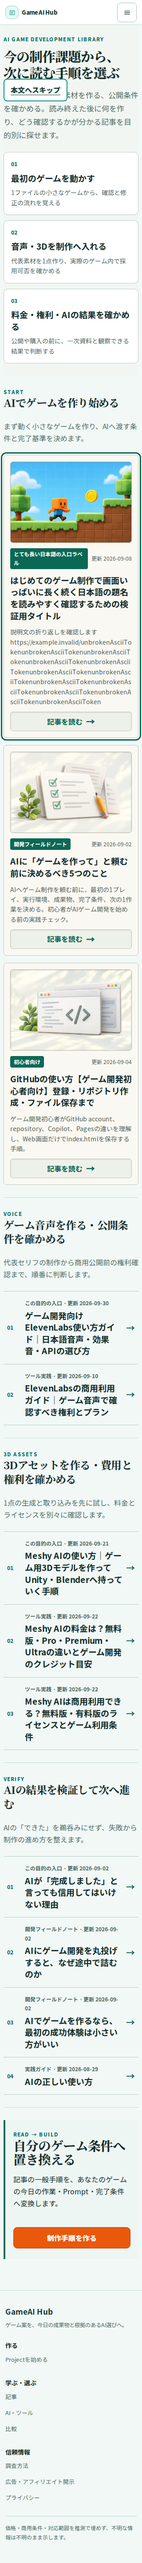
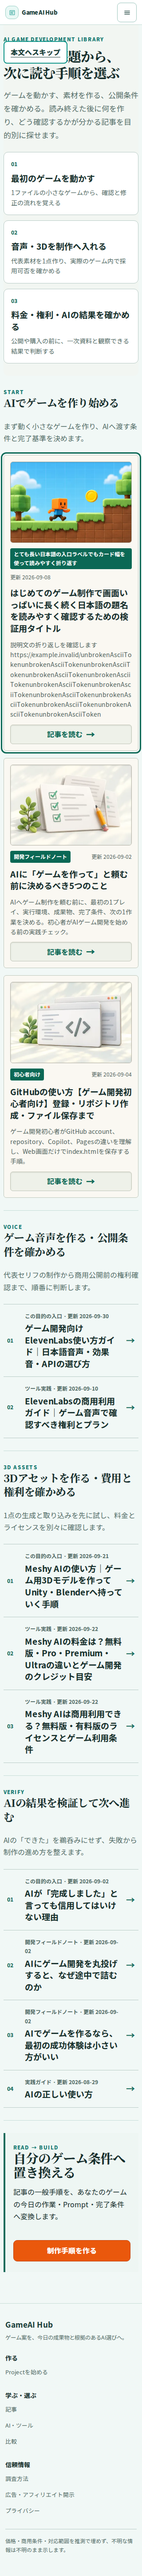
fix: let enlarged article metadata wrap

diff --git a/e2e/issue-155-v1.spec.ts b/e2e/issue-155-v1.spec.ts
@@ -129,6 +129,33 @@ for (const width of [320, 375]) {
     expect(widths.documentOverflowPx).toBe(0);
     expect(widths.unownedOverflowingElements).toEqual([]);
     await expect(page.locator("#start li > a")).toHaveCount(3);
+    const metadataLayouts = await page.locator("#start .v2-start-card-meta").evaluateAll((rows) => rows.map((row) => {
+      const rowRect = row.getBoundingClientRect();
+      const label = row.querySelector<HTMLElement>(".v2-start-card-label")!;
+      const date = row.querySelector<HTMLElement>("small")!;
+      const labelRect = label.getBoundingClientRect();
+      const dateRect = date.getBoundingClientRect();
+      const labelTextRange = document.createRange();
+      labelTextRange.selectNodeContents(label);
+      const verticalOverlap = Math.min(labelRect.bottom, dateRect.bottom) - Math.max(labelRect.top, dateRect.top);
+      const horizontalGap = Math.max(labelRect.left, dateRect.left) - Math.min(labelRect.right, dateRect.right);
+      const verticalGap = Math.max(labelRect.top, dateRect.top) - Math.min(labelRect.bottom, dateRect.bottom);
+      return {
+        contained: labelRect.left >= rowRect.left - 1
+          && labelRect.right <= rowRect.right + 1
+          && dateRect.left >= rowRect.left - 1
+          && dateRect.right <= rowRect.right + 1,
+        fullTextVisible: label.scrollWidth <= label.clientWidth + 1
+          && label.scrollHeight <= label.clientHeight + 1
+          && date.scrollWidth <= date.clientWidth + 1
+          && date.scrollHeight <= date.clientHeight + 1,
+        labelLineCount: labelTextRange.getClientRects().length,
+        nonoverlapping: verticalOverlap > 0 ? horizontalGap >= 0 : verticalGap >= 0,
+      };
+    }));
+    expect(metadataLayouts).toHaveLength(3);
+    expect(metadataLayouts.every(({ contained, fullTextVisible, labelLineCount, nonoverlapping }) =>
+      contained && fullTextVisible && labelLineCount === 1 && nonoverlapping)).toBe(true);
     await page.screenshot({
       path: `${evidenceDirectory}/articles-${width}x844-root-text-200.png`,
       fullPage: true,
@@ -142,7 +169,7 @@ test("V1 START cards contain long Japanese and unbroken ASCII stress content", a
   const stress = {
     title: "はじめてのゲーム制作で画面いっぱいに長く続く日本語の題名を読みやすく確認するための検証用タイトル",
     description: "説明文の折り返しを確認します https://example.invalid/" + "unbrokenAsciiToken".repeat(12),
-    label: "とても長い日本語の入口ラベル",
+    label: "とても長い日本語の入口ラベルでもカード幅を使って読みやすく折り返す",
   };
   await page.locator("#start .v2-start-card").first().evaluate((card, content) => {
     card.querySelector<HTMLElement>(".v2-start-card-face > strong")!.textContent = content.title;
@@ -168,12 +195,14 @@ test("V1 START cards contain long Japanese and unbroken ASCII stress content", a
     return {
       textFits,
       descendantsContained,
-      metadataGapPx: dateRect.left - labelRect.right,
+      metadataNonoverlap: Math.min(labelRect.bottom, dateRect.bottom) > Math.max(labelRect.top, dateRect.top)
+        ? Math.max(labelRect.left, dateRect.left) >= Math.min(labelRect.right, dateRect.right)
+        : Math.max(labelRect.top, dateRect.top) >= Math.min(labelRect.bottom, dateRect.bottom),
     };
   });
   expect(geometry.textFits).toBe(true);
   expect(geometry.descendantsContained).toBe(true);
-  expect(geometry.metadataGapPx).toBeGreaterThanOrEqual(0);
+  expect(geometry.metadataNonoverlap).toBe(true);
   expect((await diagnoseWidths(page)).documentOverflowPx).toBe(0);
   expect((await diagnoseWidths(page)).unownedOverflowingElements).toEqual([]);
   await firstCard.focus();

diff --git a/app/visual-layer-v2.css b/app/visual-layer-v2.css
@@ -116,6 +116,7 @@
 
 .v2-start-card-meta {
   display: flex;
+  flex-wrap: wrap;
   align-items: center;
   justify-content: space-between;
   gap: var(--space-2);

diff --git a/docs/screenshots/issue-155-v1/ACCEPTANCE.md b/docs/screenshots/issue-155-v1/ACCEPTANCE.md
@@ -7,6 +7,7 @@
 - First checkpoint verified remotely: `ca32c37cd69fef9dc0e7ee484be2ef24fab566d5`
 - Original normal-width application evidence: local Chromium rendered from the Step ③ worktree after the V1 implementation. Those captures remain preserved under `after-pass2/`.
[2 lines of base64/hex data omitted]
 - Focused browser/method: Playwright 1.62.1 with Google Chrome for Testing 151.0.7922.34, local production build, CSS viewport emulation. Synthetic text enlargement set the computed root font size from 16px to 32px; it was not browser page zoom or OS accessibility text sizing.
 - Browser evidence is viewport emulation, not physical-device evidence. Physical iPhone/Android testing is **UNTESTED**.
 - The protected Preview was not retried. Live Preview browser acceptance remains **UNTESTED**. Production was not visited or changed.
@@ -32,14 +33,15 @@ The focused follow-up is additive and does not overwrite that evidence. `focused
 - JavaScript-disabled Chromium retained all START links and descriptions. Forced-colors plus reduced-motion retained the static list and focusable links.
 - The original `Emulation.setPageScaleFactor(2)` result is retained and is now classified only as **pinch/visual-viewport scale emulation**. It measured `visualViewport.scale >= 1.9`; it did not test layout reflow, browser page zoom, OS text sizing, or a 160px layout viewport.
 - The new layout-affecting test doubled the computed root font size from 16px to 32px at 320×844 and 375×844. START title sizes increased from 19px to 38px, description sizes from 14px to 28px, and label/date sizes from 12px to 24px. At both widths the numerical diagnostics were `documentOverflowPx: 0`, `documentScrollWidth` equal to the 320/375px layout viewport, zero unowned overflowing elements, and all three cards remained present. This synthetic method supplements rather than impersonates browser zoom, OS accessibility settings, or physical-device testing.
-- Disposable browser-test DOM replaced only the first START card's title, description, and label with long Japanese plus a URL/unbroken ASCII token. The production article records were not changed. At 320px, every tested text box reported `scrollWidth <= clientWidth + 1` and `scrollHeight <= clientHeight + 1`; every descendant remained within the card; the label/date gap was non-negative; document and unowned overflow were zero; the entire strings remained in the DOM and visible; focus was visible on the card; and the list item retained exactly one link. The initial run reproduced clipped/overflowing text and failed. The scoped `min-width: 0`/`overflow-wrap: anywhere` repair for label and description passed the second run.
+- The corrected metadata row can wrap its label and date onto separate flex lines when their natural widths do not fit. At synthetic 200% root text, all three production labels at both 320px and 375px remained single-line at their natural width, while label/date geometry was contained, fully visible, and nonoverlapping in either inline or stacked placement. The test no longer assumes horizontal ordering.
+- Disposable browser-test DOM replaced only the first START card's title, description, and label with long Japanese plus a URL/unbroken ASCII token. The production article records were not changed. At 320px, every tested text box reported `scrollWidth <= clientWidth + 1` and `scrollHeight <= clientHeight + 1`; every descendant remained within the card; the label and date were nonoverlapping whether inline or stacked; document and unowned overflow were zero; the entire strings remained in the DOM and visible; focus was visible on the card; and the list item retained exactly one link. The initial run reproduced clipped/overflowing text and failed. The scoped `min-width: 0`/`overflow-wrap: anywhere` repair for label and description passed the second run.
 - The mobile Header test is intentionally named for its narrower proven behavior: initial close-button focus, Escape close with focus returned to the trigger, and surrounding Shift+Tab order. It does not claim that Tab/Shift+Tab wrapping inside the open dialog was exercised. Header logic was unchanged.
 - Representative Home-to-article-to-Project navigation and existing Compare/article layout checks remained covered by the existing focused suites; V1 did not change their DOM or layout CSS.
 
 ## Asset and size checks
 
 - All 11 runtime candidates matched `ASSET_MANIFEST.json` byte sizes and SHA-256 values in both the handoff and public copies; corresponding copies were byte-identical. Both SVG files parsed successfully, and all nine WebP files decoded successfully in Chromium. Intentionally omitted master PNGs were not treated as runtime failures.
-- Added stylesheet source size: 6,132 bytes; gzip size: 1,707 bytes. This is below the 8 KiB gzip V1 budget.
+- Added stylesheet source size: 6,237 bytes; gzip size: 1,718 bytes. This is below the 8 KiB gzip V1 budget.
 - Added runtime JavaScript: 0 bytes. The visual mapping and page remain server-rendered; no client island or carousel dependency was added.
 - The 11 already-deployed runtime assets total 165,680 bytes. A 320px hub transfers no background. Wider views select one 12,746–37,810 byte background, and the three visible 480px covers total 26,412 bytes.
 - Supplied WebP files are served directly rather than re-encoded. No dependency or package manifest changed.
@@ -58,6 +60,10 @@ An independent visual/mobile reviewer inspected the approved material reference 
 The focused enlargement and long-content screenshots receive a separate second-pass review in this follow-up. Header and Footer logic and colors remain unchanged by V1; no color migration is claimed for those global components.
 
 The independent focused second pass inspected the 320/375 synthetic-enlargement screenshots, the 320 long-content screenshot, the test assertions, and the scoped repair. Its targeted three-case run passed, with no P0, P1, or high-impact P2 remaining. It confirmed visible wrapping, separated metadata, the focus outline, and single-link access. Its documentation concern (durable numerical values, method, paths, worktree state, and limitations) is addressed above; focus-ring visibility is now also asserted from computed outline styles as well as retained in the screenshot.
+
+The subsequent metadata-only review found a P2 in the 320px synthetic-enlargement capture: flex shrinking forced ordinary labels into narrow multi-line columns beside the nowrap date. The row now wraps rather than squeezing labels. Corrected 320/375 enlargement and 320 long-content captures were inspected after the six-case V1 run; normal 320/375/390/1440 captures were rerendered by the same run and remained pixel-unchanged. The long custom label uses the available row width and wraps without collision or clipping.
+
+An independent metadata-only reviewer inspected the current diff and all corrected enlargement, long-content, and normal-width captures. The reviewer reported no P0, P1, P2, or P3 findings: ordinary labels retain natural single-line width, dates stack cleanly when needed, the custom label uses the row width, and normal layouts show no regression. Independent focused visual gate for this correction: **PASS**.
 
 ## Rollback
 

diff --git a/docs/codex-progress/issue-155-visual-layer-v2.md b/docs/codex-progress/issue-155-visual-layer-v2.md
@@ -6,7 +6,7 @@
 - Package baseline: `711dcb5df28db7df0b916589c264a97249a661e6`
 - Handoff deployment commit: `9a2478eb208371a5a52d6eec0a6e515182730e28`
 - Completed phases: ① repository handoff/assets deployment; ② current-main remap including merged PR #154 / ElevenLabs v4 article
-- Current phase: Step ③ V1 implemented on PR #156; focused commander-requested enlargement/long-content acceptance follow-up in review
+- Current phase: Step ③ V1 implemented on PR #156; focused enlarged-metadata layout correction in review
 - Remap decision: START group remains the only V1 static-card target; current hub groups/order are authoritative; new ElevenLabs v4 article is published but not currently listed in VOICE and will not be silently inserted by V1
 - V1 planned fence: scoped `app/visual-layer-v2.css`, Articles hub modifier/static START covers, no Header/Footer logic or color migration, no Creation Deck JS
 - Current app/runtime changes from Visual Layer v2: scoped CSS import/tokens and Articles-only Mint Atrium layer; static Crafted Ceramic cards for the existing START three; typed visual-path map; no client island or Creation Deck
@@ -21,4 +21,5 @@
 - Unresolved mapping blocker: none
 - Physical-device acceptance: UNTESTED
 - Focused follow-up: preserved the pinch-emulation result with an accurate label; added synthetic 200% root-text reflow evidence at 320/375 and disposable long-Japanese/unbroken-ASCII START-card stress at 320. The stress test reproduced text overflow, repaired only label/description wrapping, and rerendered normal 320/375/390/1440 evidence. Physical-device, OS text-size, browser page-zoom, and live protected-Preview acceptance remain UNTESTED.
+- Metadata correction: at 200% synthetic root text, the metadata flex row now wraps instead of shrinking ordinary labels beside the nowrap date. Focused coverage accepts inline or stacked nonoverlap, checks all three production labels remain at natural single-line width at 320/375, and keeps long custom labels contained across the available card width. Corrected enlarged/stress captures were inspected; normal captures were rerendered without pixel changes.
 - Next authorized action: commander review and GitHub check verification on the existing PR #156; do not create another PR, merge, or proceed to V2/V3/V4
